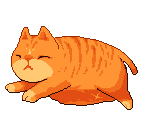
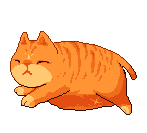
Fix cat anim

Changed region(s): [[0.0272, 0.1805, 0.9524, 0.8722], [0.4082, 0.4511, 0.4354, 0.4812], [0.381, 0.5714, 0.4082, 0.6015]]

diff --git a/Ginyang/Assets/Scripts/CharacterMovement.cs b/Ginyang/Assets/Scripts/CharacterMovement.cs
@@ -10,6 +10,7 @@ public class CharacterMovement : MonoBehaviour {
 	private bool isJumping;
 	private float ground;
 	private Animator ani;
+	private float pos_x;
 
 	const float g = 2f;
 
@@ -17,16 +18,18 @@ public class CharacterMovement : MonoBehaviour {
 	void Start () {
 		ground = transform.position.y;
 		ani = GetComponent<Animator>();
+		pos_x = transform.position.x;
+	}
+
+	void Update() {
+		if(ani.GetInteger("State") == 1 && pos_x != transform.position.x)
+			ani.SetInteger("State", 0);
+		pos_x = transform.position.x;
 	}
 	
 	public void Move(Vector3 dir) {
 		transform.Translate(transform.InverseTransformDirection(dir) * speed * Time.deltaTime);
 		ani.SetInteger("State", 1);
-	}
-
-	public void StopMoving() {
-		if(ani.GetInteger("State") == 1)
-			ani.SetInteger("State", 0);
 	}
 
 	IEnumerator Jump () {

diff --git a/Ginyang/Assets/Scripts/PlayerController.cs b/Ginyang/Assets/Scripts/PlayerController.cs
@@ -23,9 +23,6 @@ public class PlayerController : MonoBehaviour {
 		if (Input.GetKey(rightKey))
 			cm.Move(Vector3.right);
 
-		if (Input.GetKeyUp(leftKey) || Input.GetKeyUp(rightKey))
-			cm.StopMoving();
-
 		if (Input.GetKeyDown(jumpKey))
 			cm.StartCoroutine("Jump");
 
